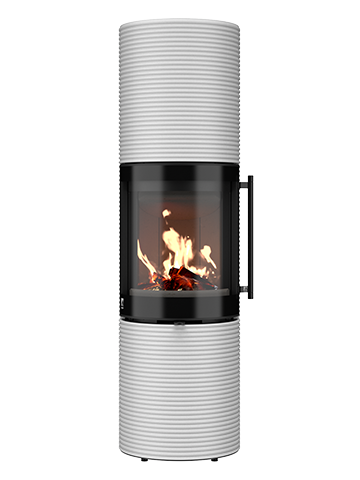
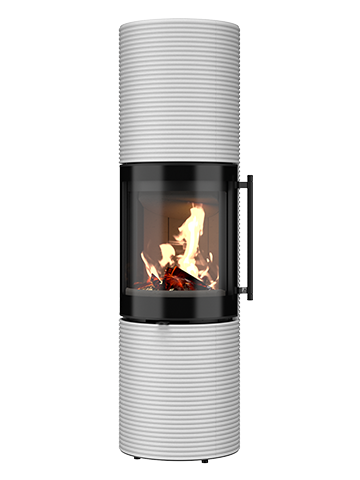
Use the real BRUNELLO 2 L pictures, three fire-clay plates in the chamber
The fire chamber has three fire-clay plates like the Drooff stoves, one
on the back wall and one on each side wall, instead of seven smaller ones.

diff --git a/custom_components/drooff_fireplus_v2/frontend/drooff-fireplus-card.js b/custom_components/drooff_fireplus_v2/frontend/drooff-fireplus-card.js
@@ -260,7 +260,6 @@ const I18N = {
       stove_mat_steel: "Stahl",
       stove_mat_steel_clad: "Stahl mit Verkleidung",
       stove_mat_clad: "Verkleidung",
-      stove_second: " (2. Version)",
       stove_variant_hint: "Wähle Variante, Ausführung und Farbe deines Ofens. Das Bild wird dann aus dem GitHub-Repository der Integration geladen und in der Karte gespeichert. Alternativ lässt sich mit „Bild auswählen …“ ein eigenes Foto verwenden.",
       stove_download_error: "Das Bild konnte nicht von GitHub geladen werden. Ist das Internet erreichbar?",
       stove_handle_left: ", Griff links",
@@ -416,7 +415,6 @@ const I18N = {
       stove_mat_steel: "Steel",
       stove_mat_steel_clad: "Steel with cladding",
       stove_mat_clad: "Cladding",
-      stove_second: " (2nd version)",
       stove_variant_hint: "Choose version, variant and colour of your stove. The picture is then loaded from the GitHub repository of the integration and stored in the card. You can also use your own photo with “Choose picture …”.",
       stove_download_error: "The picture could not be loaded from GitHub. Is the internet reachable?",
       stove_handle_left: ", handle on the left",
@@ -1245,7 +1243,7 @@ const H = 250;
 
 /* look of the combustion chamber */
 const WALL_STYLES = {
-  chamotte: { plate: true, plateHeight: 150, color: [234, 224, 204], vary: 7, joint: 0.45, jointColor: "rgb(150,138,120)" },
+  chamotte: { plate: true, color: [234, 224, 204], vary: 7, joint: 0.45, jointColor: "rgb(150,138,120)" },
   bricks_light: { plate: false, color: [236, 229, 214], vary: 16, joint: 0.6, jointColor: "rgb(110,100,88)" },
   bricks_dark: { plate: false, color: [52, 42, 37], vary: 10, joint: 0.6, jointColor: "rgb(150,112,82)", dark: true },
 };
@@ -1435,19 +1433,10 @@ class FireRenderer {
     };
 
     if (style.plate) {
-      /* upright fire-clay plates (hochkant), three on the back wall, two per side wall */
-      const PH = style.plateHeight;
-      const cols = 3;
-      const pw = (BX1 - BX0) / cols;
-      for (let y = FLOOR; y > top - PH; y -= PH) {
-        for (let c = 0; c < cols; c++) back(BX0 + c * pw, BX0 + (c + 1) * pw, y, y - PH, 1);
-      }
-      for (const side of [-1, 1]) {
-        for (let y = FLOOR; y > ytopSide - 200; y -= PH) {
-          sideP(0, 0.5, y, y - PH, side, 0.88);
-          sideP(0.5, 1, y, y - PH, side, 0.88);
-        }
-      }
+      /* three fire-clay plates like in the Drooff stoves: one on the back wall, one per side wall,
+         each from the floor up to the baffle plate */
+      back(BX0, BX1, FLOOR, top - 10, 1);
+      for (const side of [-1, 1]) sideP(0, 1, FLOOR, ytopSide - 200, side, 0.88);
     } else {
       const RH = 17;
       const BW = 41;
@@ -3203,8 +3192,7 @@ const STOVE_MODELS = [
    The editor offers series, then material, then the colours as previews.
    Material is steel, steel_clad (steel with cladding), clad (cladding) or a product name like StilBeton.
    The window is the fire of the picture plus the soft edge (SOFT_EDGE) on each side.
-   In the colour, {L} / {R} stand for the handle on the left / right, {D} for the wood compartment door,
-   {2} for the second version of Drooff with the same colour. */
+   In the colour, {L} / {R} stand for the handle on the left / right, {D} for the wood compartment door. */
 const STOVES_URL = `/${DOMAIN}/stoves`;
 const PICTURES_URL = "https://raw.githubusercontent.com/steigerbalett/ha-drooff-fireplus-v2/main/pictures/stoves";
 const STOVE_PICTURES = {
@@ -3279,13 +3267,10 @@ const STOVE_PICTURES = {
   ],
   brunello2l: [
     ["brunello-2-l-stahl-schwarz", "BRUNELLO 2 L", "steel", "schwarz", [13.5, 35.4, 70.9, 30.4]],
-    ["brunello-2-l-stilbeton-cream", "BRUNELLO 2 L", "StilBeton", "cream handpoliert", [13.6, 40.8, 71.4, 24.4]],
+    ["brunello-2-l-stilbeton-cream", "BRUNELLO 2 L", "StilBeton", "cream handpoliert", [12.4, 37.4, 70.9, 28.3]],
     ["brunello-2-l-stilbeton-basalt", "BRUNELLO 2 L", "StilBeton", "basalt sandgestrahlt", [13.7, 40.9, 70.4, 24.1]],
-    ["brunello-2-l-stilbeton-cream-2", "BRUNELLO 2 L", "StilBeton", "cream handpoliert{2}", [12.4, 37.4, 70.9, 28.3]],
-    ["brunello-2-l-stilbeton-basalt-2", "BRUNELLO 2 L", "StilBeton", "basalt sandgestrahlt{2}", [12.2, 37.3, 72.0, 28.6]],
-    ["brunello-2-l-groove-stilbeton-cream", "BRUNELLO 2 L Groove", "StilBeton", "cream handpoliert", [3.1, 37.2, 83.7, 28.4]],
+    ["brunello-2-l-groove-stilbeton-cream", "BRUNELLO 2 L Groove", "StilBeton", "cream handpoliert", [1.5, 36.0, 86.3, 29.6]],
     ["brunello-2-l-groove-stilbeton-basalt", "BRUNELLO 2 L Groove", "StilBeton", "basalt", [3.1, 37.1, 83.7, 28.6]],
-    ["brunello-2-l-groove-stilbeton-cream-2", "BRUNELLO 2 L Groove", "StilBeton", "cream handpoliert{2}", [1.5, 36.0, 86.3, 29.6]],
     ["brunello-2-l-groove-stilbeton-basalt-black-edition", "BRUNELLO 2 L Groove", "StilBeton", "basalt, Glas Black Edition", [3.1, 37.1, 83.7, 28.6]],
   ],
   catania: [
@@ -3345,7 +3330,6 @@ const stovePictureLabel = (t, colour) =>
     .replace("{L}", t.stove_handle_left)
     .replace("{R}", t.stove_handle_right)
     .replace("{D}", t.stove_wood_door)
-    .replace("{2}", t.stove_second)
     .replace(/^,\s*/, "");
 
 const stoveMaterialLabel = (t, mat) => t[`stove_mat_${mat}`] || mat;

diff --git a/docs/dashboard-card.de.md b/docs/dashboard-card.de.md
@@ -10,7 +10,7 @@ Eine Dashboard-Card für die Home-Assistant-Integration [Drooff fire+ V2](https:
 
 ## Funktionen
 
-- **Realistische Flammenanimation** (Partikelsystem auf Canvas mit Flammenzungen und Funkenflug) in einem Brennraum aus **hochkant stehenden weißen Schamotteplatten**, mit Seitenwänden in Perspektive, Rußspuren und flackerndem Feuerschein. Alternativ wählbar: helle oder dunkle Mauer.
+- **Realistische Flammenanimation** (Partikelsystem auf Canvas mit Flammenzungen und Funkenflug) in einem Brennraum aus **drei weißen Schamotteplatten** wie bei Drooff (Rückwand und zwei Seitenwände), mit Seitenwänden in Perspektive, Rußspuren und flackerndem Feuerschein. Alternativ wählbar: helle oder dunkle Mauer.
 - **Spaltholz**: 25 cm lange Buchenscheite mit Rinde, Fasern, Ästen und Jahresringen. Sie verkohlen und glühen beim Abbrand. Das Feuer folgt der Brennraumtemperatur und dem Betriebsstatus:
   - *Aus*: kalte Scheite, bei Restwärme leichte Restglut
   - *Anheizen*: Flamme wächst mit dem Anheizfortschritt
@@ -64,7 +64,7 @@ Alles Weitere wird automatisch erkannt.
 | `min_temperature` | `80` | Brennraumtemperatur, unter der keine Flamme gezeigt wird (°C) |
 | `max_temperature` | `600` | Temperatur für die volle Flamme (°C) |
 | `log_weight` | `0.9` | Gewicht eines Holzscheits in kg (Umrechnung der Holzauflage in Scheite) |
-| `wall` | `chamotte` | Brennraum-Hintergrund: `chamotte` (Schamotteplatten hochkant), `bricks_light` (Mauer hell), `bricks_dark` (Mauer dunkel) |
+| `wall` | `chamotte` | Brennraum-Hintergrund: `chamotte` (drei Schamotteplatten wie bei Drooff), `bricks_light` (Mauer hell), `bricks_dark` (Mauer dunkel) |
 | `stove_image` | – | Bild des Ofens (Dateiauswahl im Editor oder URL wie `/local/ofen.png`). Ohne Bild wird die Feuerstelle gezeigt |
 | `stove_model` | – | Drooff-Modell, setzt im Editor den optimalen Zugbereich: `andalo3s`, `andalo3m`, `andalo3l`, `aprica2`, `arola`, `brunello2s`, `brunello2m`, `brunello2l`, `catania`, `forano`, `garda`, `imola`, `livera2m`, `livera2l`, `liverapm`, `liverapl`, `varese3`, `varese3w` |
 | `stove_window` | `{left: 20, top: 20, width: 60, height: 40}` | Lage des Sichtfensters im Bild in Prozent der Breite/Höhe |
@@ -119,7 +119,7 @@ Bitte nur Bilder verwenden, die du nutzen darfst; Produktfotos sind in der Regel
 
 Unter **Ofenbild → Ofenmodell (Drooff)** wählst du dein Drooff-Modell aus (alle Holz-Kaminöfen, die fire+ unterstützen). Die Karte übernimmt dann den optimalen Zugbereich des Modells: vom Mindestförderdruck (laut den Technischen Informationen von Drooff 12 Pa, bei AROLA 2 und GARDA 2 13 Pa) bis −20 Pa, ab dem Drooff einen Zugbegrenzer vorschreibt. Für BRUNELLO 2, CATANIA, GARDA 2 und AROLA 2 nennt Drooff bei Teillast nur 6 Pa; mit der experimentellen Option „Teillast berücksichtigen“ (Erweitert, standardmäßig aus) beginnt der optimale Bereich bei diesen Modellen bei Brennstufe 1–3 deshalb schon bei −6 Pa. Dass die Brennstufen 1–3 der Teillast aus den Drooff-Unterlagen entsprechen, ist eine Annahme. Drooff verlangt trotzdem, dass der Schornstein 12 bis 20 Pa Zug liefert. Unter „Erweitert: Kaminzug“ lassen sich die Werte weiter anpassen.
 
-Danach grenzt du deinen Ofen Schritt für Schritt ein (86 Produktbilder von Drooff, für jedes Modell): **Variante** (z. B. APRICA 2, Trend, Plus oder BRUNELLO 2 L Groove), **Ausführung** (z. B. Stahl, Stahl mit Verkleidung, Verkleidung, StilBeton) und **Farbe**. Variante und Ausführung erscheinen nur, wenn es beim Modell mehrere gibt. Die Farben zeigt der Editor als kleine Vorschaubilder mit Namen. Ein Klick lädt das Bild aus dem GitHub-Repository der Integration (`pictures/stoves/`); mit der Integration ausgeliefert werden nur die Vorschaubilder. Die Karte stellt das Bild frei, speichert es in der Kartenkonfiguration und nimmt das dafür vermessene Sichtfenster, mit weichem Rand, damit das animierte Feuer in die Scheibe übergeht. Für die Auswahl braucht es einmal Internet, danach lädt die Karte nichts mehr aus dem Internet. Mit **Bild auswählen …** nimmst du stattdessen ein eigenes Foto.
+Danach grenzt du deinen Ofen Schritt für Schritt ein (83 Produktbilder von Drooff, für jedes Modell): **Variante** (z. B. APRICA 2, Trend, Plus oder BRUNELLO 2 L Groove), **Ausführung** (z. B. Stahl, Stahl mit Verkleidung, Verkleidung, StilBeton) und **Farbe**. Variante und Ausführung erscheinen nur, wenn es beim Modell mehrere gibt. Die Farben zeigt der Editor als kleine Vorschaubilder mit Namen. Ein Klick lädt das Bild aus dem GitHub-Repository der Integration (`pictures/stoves/`); mit der Integration ausgeliefert werden nur die Vorschaubilder. Die Karte stellt das Bild frei, speichert es in der Kartenkonfiguration und nimmt das dafür vermessene Sichtfenster, mit weichem Rand, damit das animierte Feuer in die Scheibe übergeht. Für die Auswahl braucht es einmal Internet, danach lädt die Karte nichts mehr aus dem Internet. Mit **Bild auswählen …** nimmst du stattdessen ein eigenes Foto.
 
 Für ein Modell ohne mitgeliefertes Bild verlinkt die Karte die Produktseite bei Drooff und erklärt, wie das Bild in die Karte kommt:
 

diff --git a/docs/dashboard-card.md b/docs/dashboard-card.md
@@ -10,7 +10,7 @@ A Lovelace dashboard card for the Home Assistant integration [Drooff fire+ V2](h
 
 ## Features
 
-- **Realistic fire animation** (canvas particle system with flame tongues and sparks) in a combustion chamber lined with **upright white fire-clay plates**, side walls in perspective, soot marks and flickering firelight. Light or dark brick walls can be selected instead.
+- **Realistic fire animation** (canvas particle system with flame tongues and sparks) in a combustion chamber lined with **three white fire-clay plates** like in Drooff stoves (back wall and two side walls), side walls in perspective, soot marks and flickering firelight. Light or dark brick walls can be selected instead.
 - **Split firewood**: 25 cm beech logs with bark, fibres, knots and growth rings. They char and glow while burning. The fire follows the chamber temperature and the operation status:
   - *Off*: cold logs, faint embers while the stove is still warm
   - *Heating up*: the flame grows with the heating progress
@@ -64,7 +64,7 @@ Everything else is detected automatically.
 | `min_temperature` | `80` | Chamber temperature below which no flame is shown (°C) |
 | `max_temperature` | `600` | Temperature for the full flame (°C) |
 | `log_weight` | `0.9` | Weight of one log in kg (converts the wood load into logs) |
-| `wall` | `chamotte` | Chamber background: `chamotte` (upright fire-clay plates), `bricks_light`, `bricks_dark` |
+| `wall` | `chamotte` | Chamber background: `chamotte` (three fire-clay plates like in Drooff stoves), `bricks_light`, `bricks_dark` |
 | `stove_image` | – | Picture of the stove (file picker in the editor, or a URL like `/local/stove.png`). Without it the open fireplace is shown |
 | `stove_model` | – | Drooff model, sets the optimal draught range in the editor: `andalo3s`, `andalo3m`, `andalo3l`, `aprica2`, `arola`, `brunello2s`, `brunello2m`, `brunello2l`, `catania`, `forano`, `garda`, `imola`, `livera2m`, `livera2l`, `liverapm`, `liverapl`, `varese3`, `varese3w` |
 | `stove_window` | `{left: 20, top: 20, width: 60, height: 40}` | Position of the window in the picture, in percent of width/height |
@@ -119,7 +119,7 @@ Please only use pictures you are allowed to use; product photos are usually copy
 
 Under **Stove picture → Stove model (Drooff)** you can choose your Drooff model (all wood stoves that support fire+). The card then applies the optimal draught range of that model: from its minimum draught (12 Pa according to Drooff’s technical information, 13 Pa for AROLA 2 and GARDA 2) to −20 Pa, above which Drooff requires a draught limiter. For BRUNELLO 2, CATANIA, GARDA 2 and AROLA 2 Drooff specifies only 6 Pa at partial load, so with the experimental option “Consider partial load” (Advanced, off by default) the optimal range for these models starts at −6 Pa at burn rate 1–3. That burn rates 1–3 match Drooff’s partial load is an assumption. Drooff still requires the chimney to provide 12 to 20 Pa. You can still change the values under “Advanced: draught”.
 
-Then narrow down your stove step by step (86 product pictures of Drooff, for every model): **Version** (e.g. APRICA 2, Trend, Plus or BRUNELLO 2 L Groove), **Variant** (e.g. steel, steel with cladding, cladding, StilBeton) and **Colour**. Version and variant only appear when the model has more than one. The colours are shown as small previews with their name. A click loads the picture from the GitHub repository of the integration (`pictures/stoves/`); only the previews are part of the integration. The card cuts the picture out, stores it in the card configuration and uses the window measured for it, with a soft edge so the animated fire blends into the glass. Choosing a picture needs internet access once, the card itself does not load anything from the internet afterwards. **Choose picture …** uses your own photo instead.
+Then narrow down your stove step by step (83 product pictures of Drooff, for every model): **Version** (e.g. APRICA 2, Trend, Plus or BRUNELLO 2 L Groove), **Variant** (e.g. steel, steel with cladding, cladding, StilBeton) and **Colour**. Version and variant only appear when the model has more than one. The colours are shown as small previews with their name. A click loads the picture from the GitHub repository of the integration (`pictures/stoves/`); only the previews are part of the integration. The card cuts the picture out, stores it in the card configuration and uses the window measured for it, with a soft edge so the animated fire blends into the glass. Choosing a picture needs internet access once, the card itself does not load anything from the internet afterwards. **Choose picture …** uses your own photo instead.
 
 For a model without a supplied picture the card links to the product page at Drooff and explains how to get the picture into the card:
 

diff --git a/CHANGELOG.md b/CHANGELOG.md
@@ -4,8 +4,9 @@
 
 Beta: HACS offers it once *Show beta versions* is switched on for the repository.
 
-- Product pictures of Drooff for every fire+ stove (86 variants), with the kind permission of DROOFF Kaminöfen GmbH & Co. KG. They are not covered by the MIT license, see `pictures/stoves/LICENSE.md` and NOTICE.md.
+- Product pictures of Drooff for every fire+ stove (83 variants), with the kind permission of DROOFF Kaminöfen GmbH & Co. KG. They are not covered by the MIT license, see `pictures/stoves/LICENSE.md` and NOTICE.md.
 - Dashboard card 1.0.11: after the stove model, the editor asks step by step for version (e.g. APRICA 2 Trend, BRUNELLO 2 L Groove), variant (steel, steel with cladding, cladding, StilBeton, ArtBeton) and colour. The colours are small previews with their name. Clicking one loads the picture from the GitHub repository of the integration (`pictures/stoves/`), cuts it out and uses the window measured for it. Only the previews (about 130 KB) are part of the integration, so the download stays small. Choosing a picture needs internet access once, afterwards it is stored in the card.
+- Fire chamber of the card (wall *Fire-clay plates*): three plates like in the Drooff stoves, one on the back wall and one on each side wall, instead of seven smaller ones.
 - New card option `stove_window_soft` lets the window fade into the glass of the picture. Pictures that are already transparent keep white parts of the stove.
 - Draft release action: a version like `2.0.4b1` or `2.0.4rc1` becomes a pre-release, and the final version counts as higher than its betas.
 

diff --git a/README.de.md b/README.de.md
@@ -25,7 +25,7 @@ Ein großes Dankeschön an die **DROOFF Kaminöfen GmbH & Co. KG**, die diesem P
 
 ## Neu in Version 2
 
-- **Dashboard-Karte** mit animiertem Feuer, Bedienung, Bild deines Ofens (86 Produktbilder von Drooff zur Auswahl), Zeigerinstrument für den Kaminzug, Verlaufsgrafiken und einer Alarmanzeige, die nur erscheint, wenn etwas nicht stimmt
+- **Dashboard-Karte** mit animiertem Feuer, Bedienung, Bild deines Ofens (83 Produktbilder von Drooff zur Auswahl), Zeigerinstrument für den Kaminzug, Verlaufsgrafiken und einer Alarmanzeige, die nur erscheint, wenn etwas nicht stimmt
 - **Blueprint „Holz nachlegen“** mit Nachrichten (Pushover, Telegram, Companion-App, …), Echo-Ansagen und beliebigen weiteren Aktionen, jeweils mit eigener Verzögerung
 - **Statistik** aus dem Ereignis-Log des fire+: Abbrände, Nachlegevorgänge, geschätzter Holzverbrauch, zuletzt nachgelegt
 - **Bediensperren** wie in der Webapp (Fernbedienung, Raumregler, Panel), bei Öfen mit Blauem Engel nur Eco und Power

diff --git a/README.md b/README.md
@@ -25,7 +25,7 @@ A big thank you to **DROOFF Kaminöfen GmbH & Co. KG** for kindly allowing this 
 
 ## What is new in version 2
 
-- **Dashboard card** with an animated fire, controls, picture of your stove (86 product pictures of Drooff to choose from), draught gauge, history graphics and an alarm area that only appears when something is wrong
+- **Dashboard card** with an animated fire, controls, picture of your stove (83 product pictures of Drooff to choose from), draught gauge, history graphics and an alarm area that only appears when something is wrong
 - **Blueprint "Add wood"** with messages (Pushover, Telegram, mobile app, …), Echo announcements and any other actions, each with its own delay
 - **Statistics** from the event log of the fire+: fires, reloads, estimated wood consumption, last reload
 - **Control locks** like the web app (remote control, room controller, panel), Blue Angel stoves with Eco and Power only
